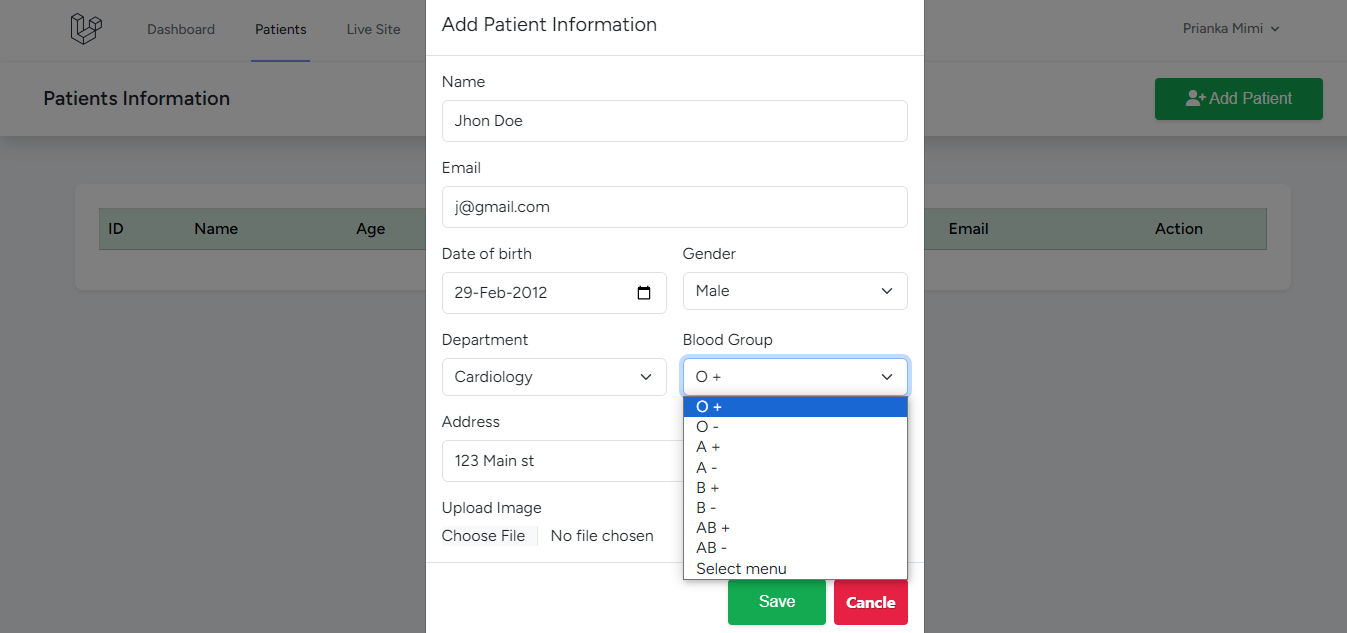
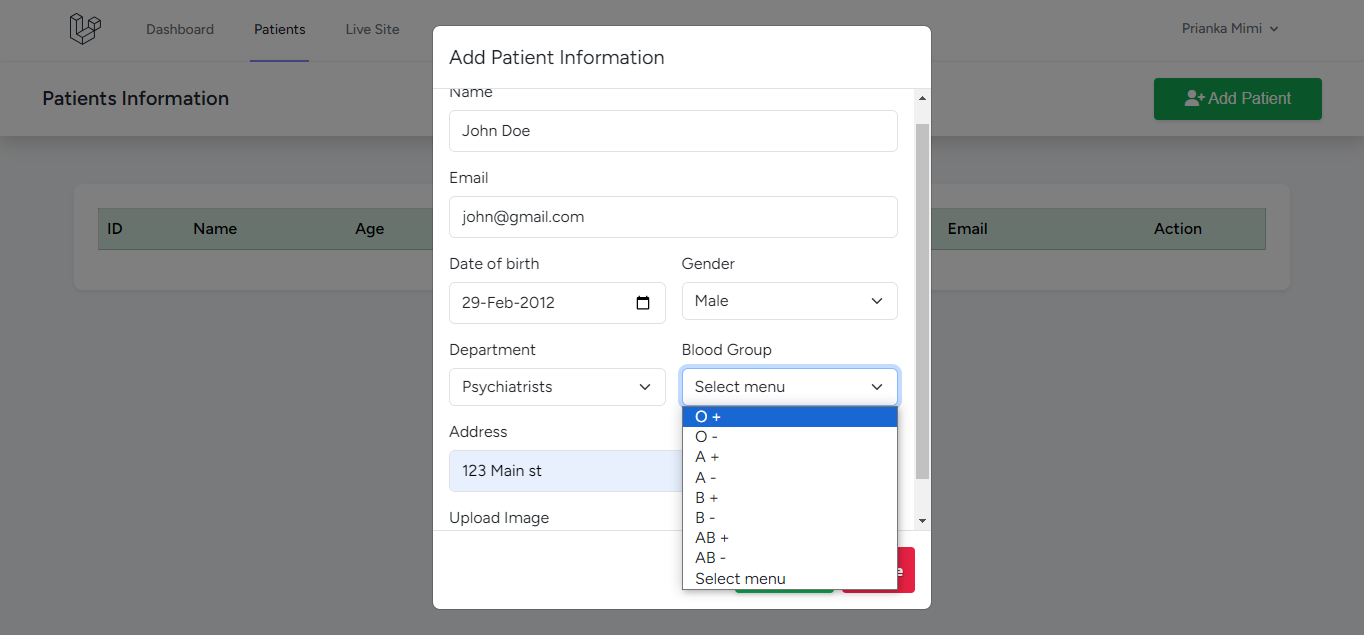
fixes issues & age cal added

diff --git a/resources/views/patients.blade.php b/resources/views/patients.blade.php
@@ -40,7 +40,18 @@
                                 <tr>
                                     <th scope="row">{{ $loop->iteration }}</th>
                                     <td>{{ $patient->patient_name }}</td>
-                                    <td>{{ $patient->patient_dob }}</td>
+                                    <td>
+                                        {{-- Calculate age --}}
+                                        @php
+                                            $dob = new DateTime($patient->date_of_birth);
+                                            $now = new DateTime($patient->patient_dob);
+                                            $age = $dob->diff($now)->y;
+                                        @endphp
+
+                                        {{-- Output age --}}
+                                        {{ $age }} years
+                                    </td>
+
                                     <td>{{ $patient->patient_gender }}</td>
                                     <td>{{ $patient->patient_department }}</td>
                                     <td>{{ $patient->patient_email }}</td>

diff --git a/resources/views/components/custom-add-modal.blade.php b/resources/views/components/custom-add-modal.blade.php
@@ -7,7 +7,7 @@
     <form method="post" action="{{ url('patients/add') }}" enctype="multipart/form-data">
         @csrf
         <div class="modal fade" id="exampleModal" tabindex="-1" aria-labelledby="exampleModalLabel" aria-hidden="true">
-            <div class="modal-dialog">
+            <div class="modal-dialog modal-dialog-scrollable">
                 <div class="modal-content">
                     <div class="modal-header">
                         <h1 class="modal-title fs-5" id="exampleModalLabel">Add Patient Information</h1>

diff --git a/app/Http/Controllers/Admin/PatientsController.php b/app/Http/Controllers/Admin/PatientsController.php
@@ -34,7 +34,7 @@ class PatientsController extends Controller
         Patients::insert([
             'patient_name' => $request->name,
             'patient_email' => $request->email,
-            'patient_dob' => $request->date_fo_birth,
+            'patient_dob' => $request->date_of_birth,
             'patient_gender' => $request->gender,
             'patient_department' => $request->department,
             'patient_blood_group' => $request->blood_group,

diff --git a/database/migrations/2024_03_30_153205_create_patients_table.php b/database/migrations/2024_03_30_153205_create_patients_table.php
@@ -22,7 +22,6 @@ return new class extends Migration
             $table->string('patient_address')->nullable();
             $table->string('patient_image')->nullable();
             $table->timestamps();
-            $table->timestamp('deleted_at')->nullable();
         });
     }
 

diff --git a/README.md b/README.md
@@ -1,6 +1,6 @@
 # Exploring laravel 11 New Version !
 
-**Exploring laravel 11 New Version** with basic **CRUD**
+**Exploring laravel 11 New Version** with basic **CRUD In Modal**.It's a simple short project about **Hospital Management** With Breeze.
 
 ## Author
 
@@ -8,7 +8,7 @@
 
 ## Features
 
-- Add patients data through Modal
+- Add | View | Edit | Delete - patients data through Modal
 
 ## View In Short
 
